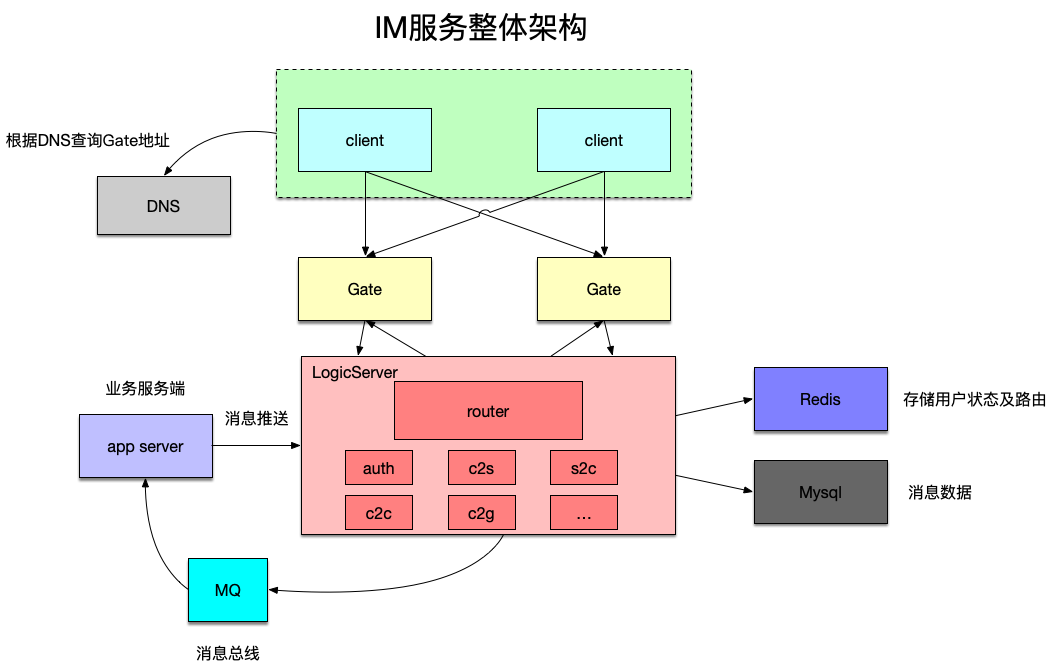
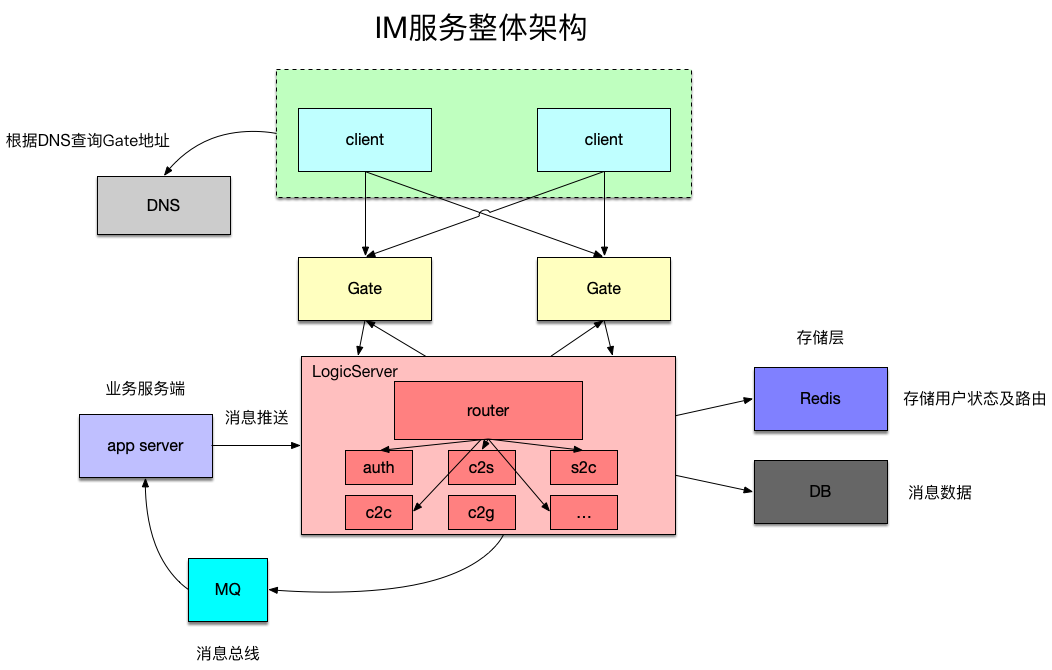
IM设计

diff --git a/post/20190608-im-design-base/index.html b/post/20190608-im-design-base/index.html
@@ -17,7 +17,7 @@
 
 
 <meta name="author" content="codedump" />
-  <meta name="description" content="IM做为非常经典的服务器系统，其设计时候的考量具备代表性，所以这一次花几个篇幅讨论其相关设计。 整体架构 以上架构图中，分为几个部分： 客户端：支" />
+  <meta name="description" content="IM做为非常经典的服务器系统，其设计时候的考量具备代表性，所以这一次花几个篇幅讨论其相关设计。 主要内容相当部分参考了 一套海量在线用户的移动端" />
 
   <meta name="keywords" content="Hugo, theme, even" />
 
@@ -50,26 +50,26 @@
 
 
 <meta property="og:title" content="IM服务器设计-基础" />
-<meta property="og:description" content="IM做为非常经典的服务器系统，其设计时候的考量具备代表性，所以这一次花几个篇幅讨论其相关设计。 整体架构 以上架构图中，分为几个部分： 客户端：支" />
+<meta property="og:description" content="IM做为非常经典的服务器系统，其设计时候的考量具备代表性，所以这一次花几个篇幅讨论其相关设计。 主要内容相当部分参考了 一套海量在线用户的移动端" />
 <meta property="og:type" content="article" />
 <meta property="og:url" content="https://codedump.info/post/20190608-im-design-base/" />
 <meta property="article:published_time" content="2019-06-08T11:09:10&#43;08:00"/>
 <meta property="article:modified_time" content="2019-06-08T11:09:10&#43;08:00"/>
 
 <meta itemprop="name" content="IM服务器设计-基础">
-<meta itemprop="description" content="IM做为非常经典的服务器系统，其设计时候的考量具备代表性，所以这一次花几个篇幅讨论其相关设计。 整体架构 以上架构图中，分为几个部分： 客户端：支">
+<meta itemprop="description" content="IM做为非常经典的服务器系统，其设计时候的考量具备代表性，所以这一次花几个篇幅讨论其相关设计。 主要内容相当部分参考了 一套海量在线用户的移动端">
 
 
 <meta itemprop="datePublished" content="2019-06-08T11:09:10&#43;08:00" />
 <meta itemprop="dateModified" content="2019-06-08T11:09:10&#43;08:00" />
-<meta itemprop="wordCount" content="3111">
+<meta itemprop="wordCount" content="3179">
 
 
 
 <meta itemprop="keywords" content="" />
 <meta name="twitter:card" content="summary"/>
 <meta name="twitter:title" content="IM服务器设计-基础"/>
-<meta name="twitter:description" content="IM做为非常经典的服务器系统，其设计时候的考量具备代表性，所以这一次花几个篇幅讨论其相关设计。 整体架构 以上架构图中，分为几个部分： 客户端：支"/>
+<meta name="twitter:description" content="IM做为非常经典的服务器系统，其设计时候的考量具备代表性，所以这一次花几个篇幅讨论其相关设计。 主要内容相当部分参考了 一套海量在线用户的移动端"/>
 
 <script type="application/javascript">
 var doNotTrack = false;
@@ -212,6 +212,8 @@ if (!doNotTrack) {
 
 <p>IM做为非常经典的服务器系统，其设计时候的考量具备代表性，所以这一次花几个篇幅讨论其相关设计。</p>
 
+<p>主要内容相当部分参考了 <a href="http://www.52im.net/thread-812-1-1.html">一套海量在线用户的移动端IM架构设计实践分享</a>一文，在此之上补充了更好的消息存储设计以及集群设计。</p>
+
 <h1 id="整体架构">整体架构</h1>
 
 <p><img src="/media/imgs/20190608-im-design-base/im-arch.png" alt="im-arch" title="im arch" /></p>
@@ -230,7 +232,7 @@ if (!doNotTrack) {
 <ul>
 <li>客户端通过gate接入IM服务器。在这里，客户端与gate之间保持TCP长连接，客户端使用DNS查询域名返回最近的gate地址进行连接。</li>
 <li>Gate的作用：保持与客户端之间的长连接，将请求数据转发给后面的逻辑服务LogicServer。LogicServer最上面是一个消息路由服务Router，根据请求的类型转发到后面具体的逻辑服务器。其中c代表客户端，s代表服务器，g代表群组，因此比如c2c服务就是处理客户端之间消息的服务器，而auth服务是处理客户端登录请求的服务器。</li>
-<li>逻辑类服务器与存储层服务打交道，其中：redis用于存储用户在线状态、用户路由数据（用户路由数据就是指用户在哪个gate服务上维护长连接），而Mysql用户存储用户的消息数据。</li>
+<li>逻辑类服务器与存储层服务打交道，其中：redis用于存储用户在线状态、用户路由数据（用户路由数据就是指用户在哪个gate服务上维护长连接），而DB用于存储用户的消息数据，这部分留待下一部分讲解。</li>
 <li>以上的接入层、逻辑层由于本身不存储状态，因此都可以进行横向扩展。看似Gate维护着长连接，但是即使一个Gate宕机，客户端检测到之后可以重新发起请求接入另一台Gate服务器。</li>
 </ul>
 

diff --git a/index.html b/index.html
@@ -160,7 +160,7 @@ if (!doNotTrack) {
   
   <div class="post-content">
     <div class="post-summary">
-      IM做为非常经典的服务器系统，其设计时候的考量具备代表性，所以这一次花几个篇幅讨论其相关设计。 整体架构 以上架构图中，分为几个部分： 客户端：支
+      IM做为非常经典的服务器系统，其设计时候的考量具备代表性，所以这一次花几个篇幅讨论其相关设计。 主要内容相当部分参考了 一套海量在线用户的移动端
     </div>
     <div class="read-more">
       <a href="/post/20190608-im-design-base/" class="read-more-link">Read more..</a>
